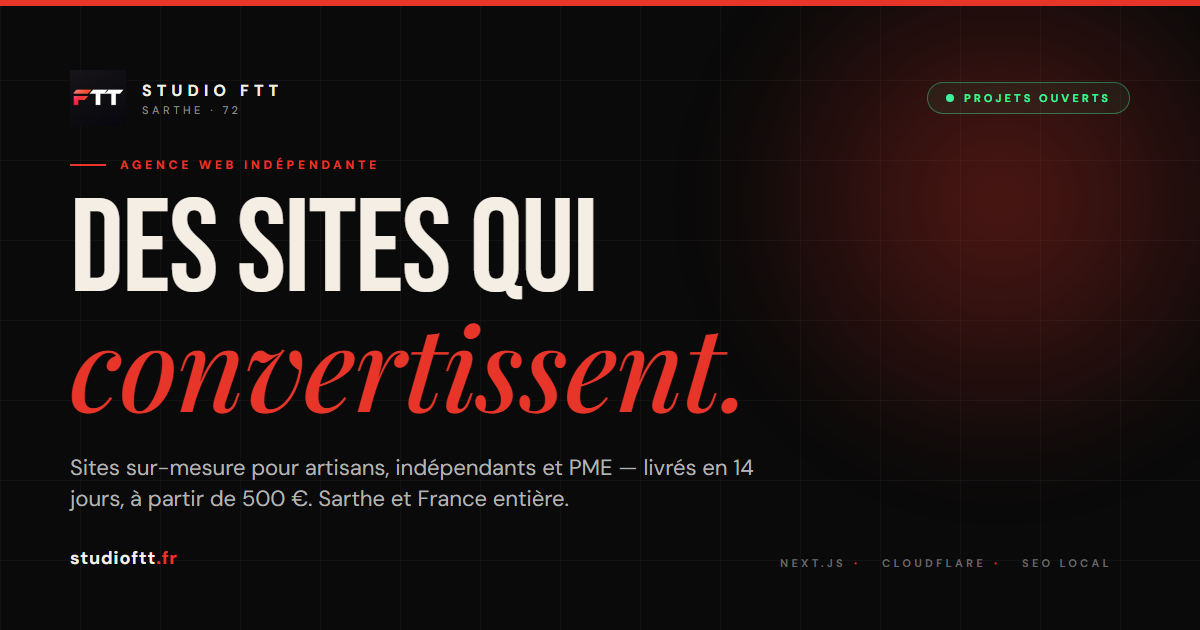
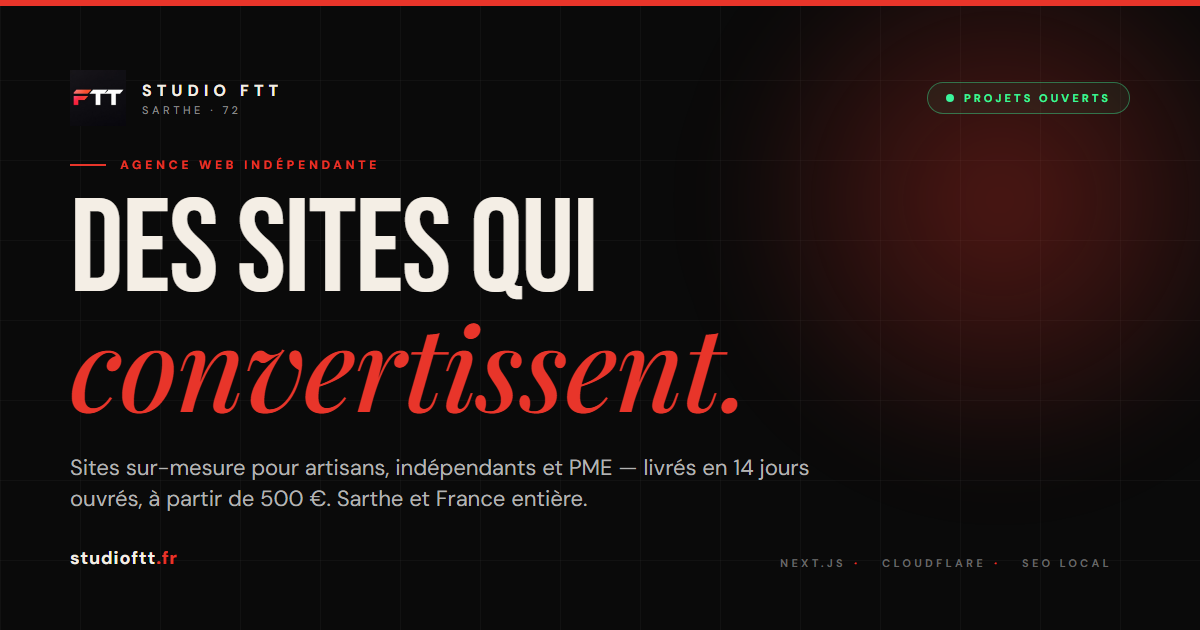
content: "14 jours ouvrés" partout (fin du "14 jours" tout court)
- À propos (×2), meta description, titre SEO tarifs, site.config, manifest, image OG source + PNG régénéré
- Cohérence totale : le délai s'écrit toujours "14 jours ouvrés" (engagement réel), jamais "14 jours" qui ferait compter 14 jours calendaires au client

Changed region(s): [[0.0617, 0.754, 0.4933, 0.8143], [0.6167, 0.7238, 0.6783, 0.754]]

diff --git a/app/a-propos/page.tsx b/app/a-propos/page.tsx
@@ -135,7 +135,7 @@ export default function APropos() {
             </p>
             <p>
               Je livre en{" "}
-              <strong className="text-white">14 jours</strong>, pas en
+              <strong className="text-white">14 jours ouvrés</strong>, pas en
               3&nbsp;mois. Devis gratuit et écrit avant de toucher à quoi que
               ce soit. Si je peux pas tenir un délai, je vous préviens avant.
               Pas après.
@@ -195,7 +195,7 @@ export default function APropos() {
                 d: "Écrit, détaillé, sans surprise. Vous savez ce que vous payez avant qu'on démarre.",
               },
               {
-                t: "Site livré en 14 jours",
+                t: "Site livré en 14 jours ouvrés",
                 d: "À compter du moment où j'ai vos contenus en main et l'acompte versé.",
               },
               {

diff --git a/app/layout.tsx b/app/layout.tsx
@@ -37,7 +37,7 @@ const mono = JetBrains_Mono({
 const TITLE_DEFAULT = "Studio FTT — Création site internet Sarthe & Le Mans";
 const TITLE_TEMPLATE = "%s — Studio FTT";
 const DESCRIPTION =
-  "Création de site internet en Sarthe et au Mans. Sites sur-mesure pour artisans et PME — livrés en 14 jours, à partir de 500 €. SEO local inclus.";
+  "Création de site internet en Sarthe et au Mans. Sites sur-mesure pour artisans et PME — livrés en 14 jours ouvrés, à partir de 500 €. SEO local inclus.";
 
 export const metadata: Metadata = {
   metadataBase: new globalThis.URL(siteConfig.url),

diff --git a/app/tarifs/layout.tsx b/app/tarifs/layout.tsx
@@ -3,7 +3,7 @@ import { siteConfig } from "@/lib/site-config";
 import JsonLd from "@/components/JsonLd";
 import { breadcrumbSchema, serviceSchema } from "@/lib/schema";
 
-const TITLE = "Tarifs : sites web à partir de 500 € — livraison 14 jours";
+const TITLE = "Tarifs : sites web à partir de 500 € — livraison 14 jours ouvrés";
 const DESCRIPTION =
   "Tarifs Studio FTT : site Vitrine 500 €, Visibilité 750 € (SEO avancé + Google Business), Sur-mesure dès 1 000 €. Maintenance 35 €/mois optionnelle. Sans abonnement caché, hébergement Cloudflare offert.";
 

diff --git a/public/og-image-source.html b/public/og-image-source.html
@@ -266,7 +266,7 @@
             <em>convertissent.</em>
           </h1>
           <p class="tagline">
-            Sites sur-mesure pour artisans, indépendants et PME — livrés en 14 jours, à partir de 500 €. Sarthe et France entière.
+            Sites sur-mesure pour artisans, indépendants et PME — livrés en 14 jours ouvrés, à partir de 500 €. Sarthe et France entière.
           </p>
         </div>
 